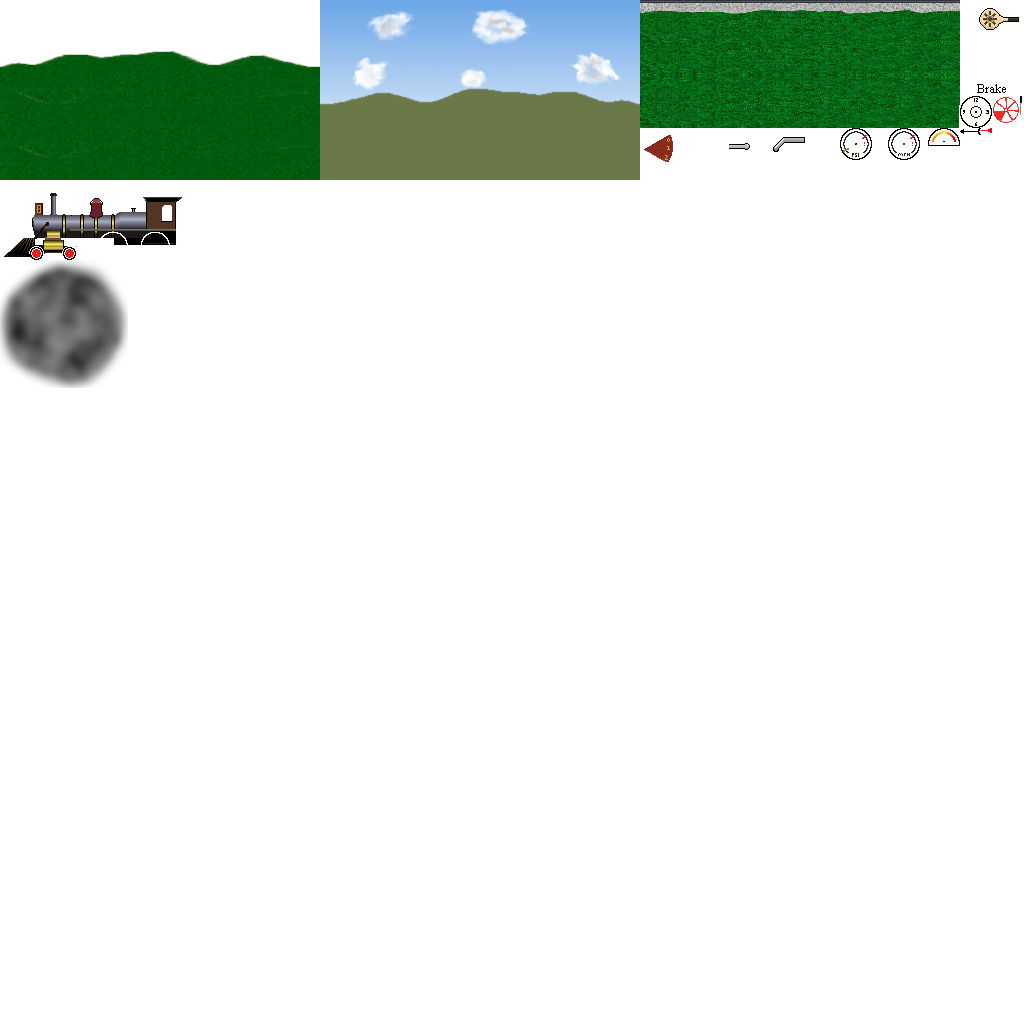
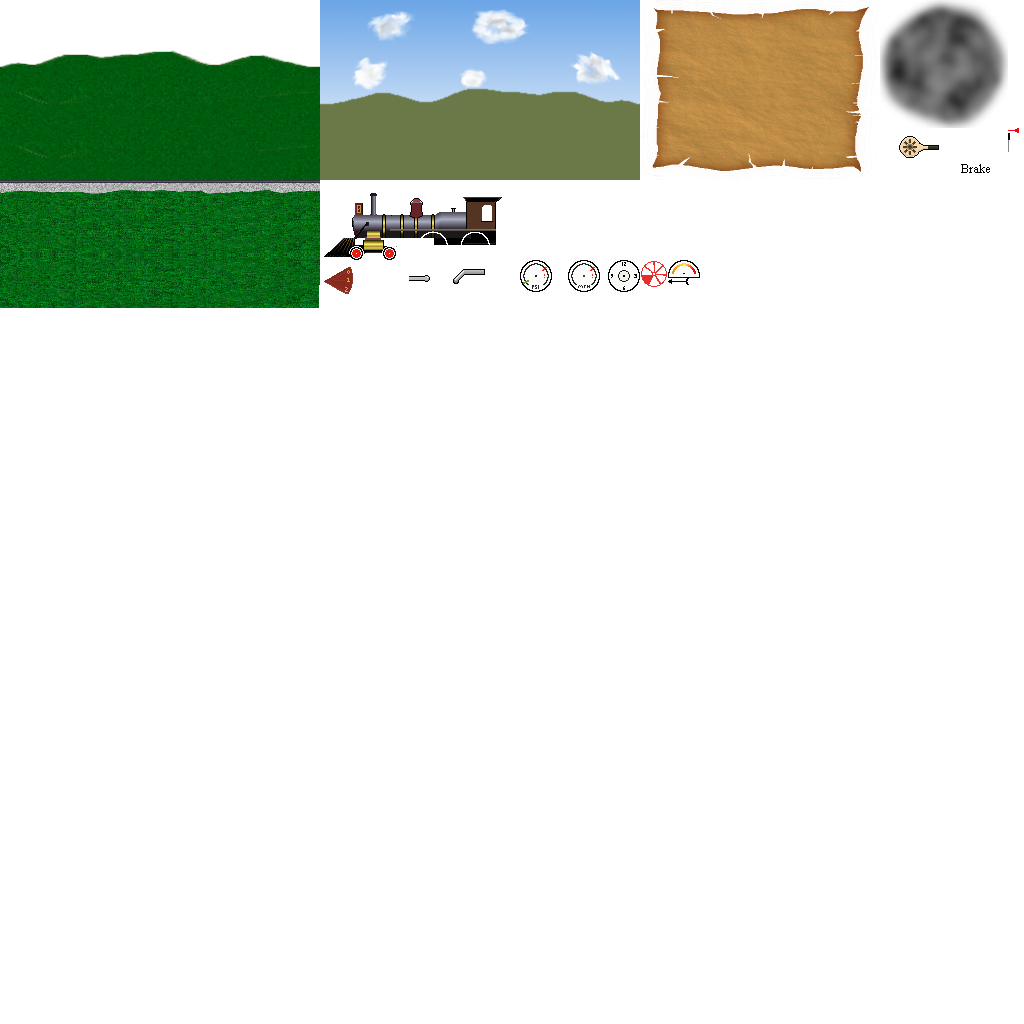
Add level intro

Changed region(s): [[0.0, 0.1562, 0.5, 0.375], [0.625, 0.0, 1.0, 0.1875], [0.5, 0.25, 0.6875, 0.2812]]

diff --git a/modes.py b/modes.py
@@ -67,59 +67,88 @@ class Titles(Mode):
     def Startup(self,t):
         return TitleStages.STARTED
 
-class GameMode(Mode):
-    blurb = "Full Steam"
-    speed = 12
-    direction_amounts = {pygame.K_UP  :  0.01*speed,
-                         pygame.K_DOWN : -0.01*speed}
-    class KeyFlags:
-        LEFT  = 1
-        RIGHT = 2
-        UP    = 4
-        DOWN  = 8
-    keyflags = {pygame.K_a  : KeyFlags.LEFT,
-                pygame.K_d : KeyFlags.RIGHT,
-                pygame.K_UP    : KeyFlags.UP,
-                pygame.K_DOWN  : KeyFlags.DOWN}
+chunk_width = 3000
 
-    inv_keys = [pygame.K_1,pygame.K_2,pygame.K_3]
+def smoothstep(last,target,x):
+    diff = (target - last)
+    height = last + diff*x*x*(3-2*x)
+    incline = (diff*6*x*(1-x))/chunk_width
+    #That incline is a ratio, we want an angle
+    r,a = cmath.polar( 1 + incline*1j)
+    return -a
+
+class LevelOne(Mode):
+    blurb = "Job One - Across the plains"
+    level_heights = [0,0] #Totally flat and short
 
     def __init__(self,parent):
         self.parent = parent
         #bl = self.parent.GetRelative(self.parent.viewpos.pos)
         #self.parent.viewpos.Follow(globals.time,self.parent.map.player)
 
-        # tr = bl + self.parent.GetRelative(globals.screen)
-        # self.blurb_text = ui.TextBox(parent = self.parent,
-        #                              bl     = bl         ,
-        #                              tr     = tr         ,
-        #                              text   = self.blurb ,
-        #                              textType = drawing.texture.TextTypes.GRID_RELATIVE,
-        #                              colour = (1,1,1,1),
-        #                              scale  = 4)
+
+        self.backdrop = drawing.Quad(globals.screen_texture_buffer,tc = globals.atlas.TextureSpriteCoords('parchment.png'))
+        self.backdrop_size = globals.atlas.SubimageSprite('parchment.png').size
+        backdrop_bl = Point(40,0)
+        backdrop_tr = backdrop_bl + self.backdrop_size
+        self.backdrop.SetVertices(backdrop_bl,backdrop_tr,10)
         self.keydownmap = 0
+        self.playing = False
+
+        self.frame = ui.UIElement(globals.screen_root,
+                                  globals.screen_root.GetRelative(backdrop_bl),
+                                  globals.screen_root.GetRelative(backdrop_tr))
+        #tr = bl + self.parent.GetRelative(globals.screen)
+        self.blurb_text = ui.TextBox(parent = self.frame,
+                                     bl     = Point(0.0,0.72) ,
+                                     tr     = Point(1,1) ,
+                                     text   = self.blurb ,
+                                     textType = drawing.texture.TextTypes.SCREEN_RELATIVE,
+                                     colour = (0,0,0,1),
+                                     scale  = 3,
+                                     alignment = drawing.texture.TextAlignments.CENTRE,
+                                     )
+        self.ok_button = ui.TextBoxButton(self.frame, 'OK',Point(0.45,0.1),Point(0.55,0.17),size=2,callback=self.click_ok,colour=(0.0,0.0,0.0,1.0))
+
+    def click_ok(self, pos):
+        self.frame.Disable()
+        self.backdrop.Disable()
+        self.playing = True
+        self.parent.Enable()
+
+    def get_incline(self, moved):
+        chunk = int(1 + (float(moved) / chunk_width))
+        if chunk >= len(self.level_heights):
+            return 0
+        target = self.level_heights[chunk]
+        last = self.level_heights[chunk-1]
+        partial = float(moved % chunk_width) / chunk_width
+        return smoothstep(last,target,partial)
 
     def KeyDown(self,key):
-        if key in self.direction_amounts:
-            self.keydownmap |= self.keyflags[key]
-            self.parent.train.move_direction += self.direction_amounts[key]
-        if key == pygame.K_SPACE:
-            self.parent.train.add_coal(1)
-
+        pass
 
     def KeyUp(self,key):
-        if key in self.direction_amounts and (self.keydownmap & self.keyflags[key]):
-            self.keydownmap &= (~self.keyflags[key])
-            self.parent.train.move_direction -= self.direction_amounts[key]
+        pass
 
     def MouseButtonDown(self,pos,button):
-        return self.parent.train.mouse_button_down(pos,button)
+        if self.playing:
+            return self.parent.train.mouse_button_down(pos,button)
+        return False,False
 
     def MouseButtonUp(self,pos,button):
-        return self.parent.train.mouse_button_up(pos,button)
+        if self.playing:
+            return self.parent.train.mouse_button_up(pos,button)
+        return False,False
 
     def MouseMotion(self,pos,rel):
-        pass
+        if self.playing:
+            if globals.dragging:
+                globals.dragging.motion(pos)
+
+
+    def Update(self, t):
+        return self.playing
 
 
 

diff --git a/game_view.py b/game_view.py
@@ -417,6 +417,7 @@ class Train(object):
         self.health_dial = HealthDial(self, self.health)
         self.wheels = [Wheel(self,20+x,y,r) for (x,y,r) in ((99,43,0),(141,43,math.pi))]
         self.add_coal_text = ui.TextBoxButton(globals.screen_root, 'Add',Point(0.465,0.770),Point(0.565,0.83),size=2,callback=self.add_coal_button,colour=(0.0,0.0,0.0,1.0))
+        self.add_coal_text.Disable()
         self.spout_pos = self.pos + Point(53,67)
         self.vent_pos = self.pos + Point(133,49)
         self.clouds = []
@@ -441,6 +442,12 @@ class Train(object):
                                     Point(tr.x, bl.y))):
             vertices[i] = globals.rotation_offset + coord.Rotate(self.parent.incline)
         self.quad.SetAllVertices(vertices,0.2)
+
+    def Enable(self):
+        self.add_coal_text.Enable()
+
+    def Disable(self):
+        self.add_coal_text.Disable()
 
     def set_dir(self, direction):
         self.direction = direction
@@ -651,14 +658,6 @@ class LoopingQuad(object):
         self.moved = (moved*self.sf) % self.size.x
         self.set_coords()
 
-def smoothstep(last,target,x):
-    diff = (target - last)
-    height = last + diff*x*x*(3-2*x)
-    incline = (diff*6*x*(1-x))/3000
-    #That incline is a ratio, we want an angle
-    r,a = cmath.polar( 1 + incline*1j)
-    return -a
-
 class GameView(ui.RootElement):
     chunk_width = 3000
     def __init__(self):
@@ -668,7 +667,7 @@ class GameView(ui.RootElement):
         self.sky = LoopingQuad(Point(0,0), 0, 'sky.png', 0.1)
         self.hills = LoopingQuad(Point(0,-50), 0.05, 'hills.png', 0.6)
         self.tracks = LoopingQuad(Point(0,-84), 0.1, 'tracks.png', 1.0)
-        self.incline = 0.3
+        self.incline = 0
         self.train = Train(self)
         self.last = None
         self.move_direction = 0
@@ -681,12 +680,12 @@ class GameView(ui.RootElement):
                                textType = drawing.texture.TextTypes.SCREEN_RELATIVE,
                                colour = drawing.constants.colours.black,
                                scale  = 2)
+        self.text.Disable()
         #pygame.mixer.music.load('music.ogg')
         #self.music_playing = False
         super(GameView,self).__init__(Point(0,0),globals.screen)
         #skip titles for development of the main game
-        self.mode = modes.GameMode(self)
-        #self.mode = modes.LevelOne(self)
+        self.mode = modes.LevelOne(self)
         self.StartMusic()
 
     def StartMusic(self):
@@ -694,15 +693,13 @@ class GameView(ui.RootElement):
         #pygame.mixer.music.play(-1)
         #self.music_playing = True
 
-    def get_incline(self):
-        chunk = int(1 + (float(self.train.moved) / self.chunk_width))
-        if chunk >= len(self.level_heights):
-            return 0
-        target = self.level_heights[chunk]
-        last = self.level_heights[chunk-1]
-        partial = float(self.train.moved % self.chunk_width) / self.chunk_width
-        return smoothstep(last,target,partial)
+    def Enable(self):
+        self.text.Enable()
+        self.train.Enable()
 
+    def Disable(self):
+        self.text.Disable()
+        self.train.Disable()
 
     def Draw(self):
         drawing.ResetState()
@@ -723,10 +720,15 @@ class GameView(ui.RootElement):
         if self.last is None:
             self.last = t
             return
+        if self.mode:
+            if not self.mode.Update(t):
+                #mode is not ready for us yet
+                return
+
         elapsed = float(t - self.last)/1000
         self.last = t
 
-        self.incline = self.get_incline()
+        self.incline = self.mode.get_incline(self.train.moved)
         self.hills.angle = self.incline/2
         self.tracks.angle = self.incline
 
@@ -735,8 +737,6 @@ class GameView(ui.RootElement):
         for backdrop in self.sky,self.tracks,self.hills:
             backdrop.Update(self.train.moved)
 
-        if self.mode:
-            self.mode.Update(t)
 
         if self.game_over:
             return
@@ -753,12 +753,8 @@ class GameView(ui.RootElement):
     def MouseButtonUp(self,pos,button):
         return self.mode.MouseButtonUp(pos, button)
 
-    def MouseMotion(self, pos, rel):
-        return self.mode.MouseMotion(pos, rel)
-
     def MouseMotion(self,pos,rel,handled):
-        if globals.dragging:
-            globals.dragging.motion(pos)
+        return self.mode.MouseMotion(pos, rel)
 
     def KeyDown(self,key):
         self.mode.KeyDown(key)
